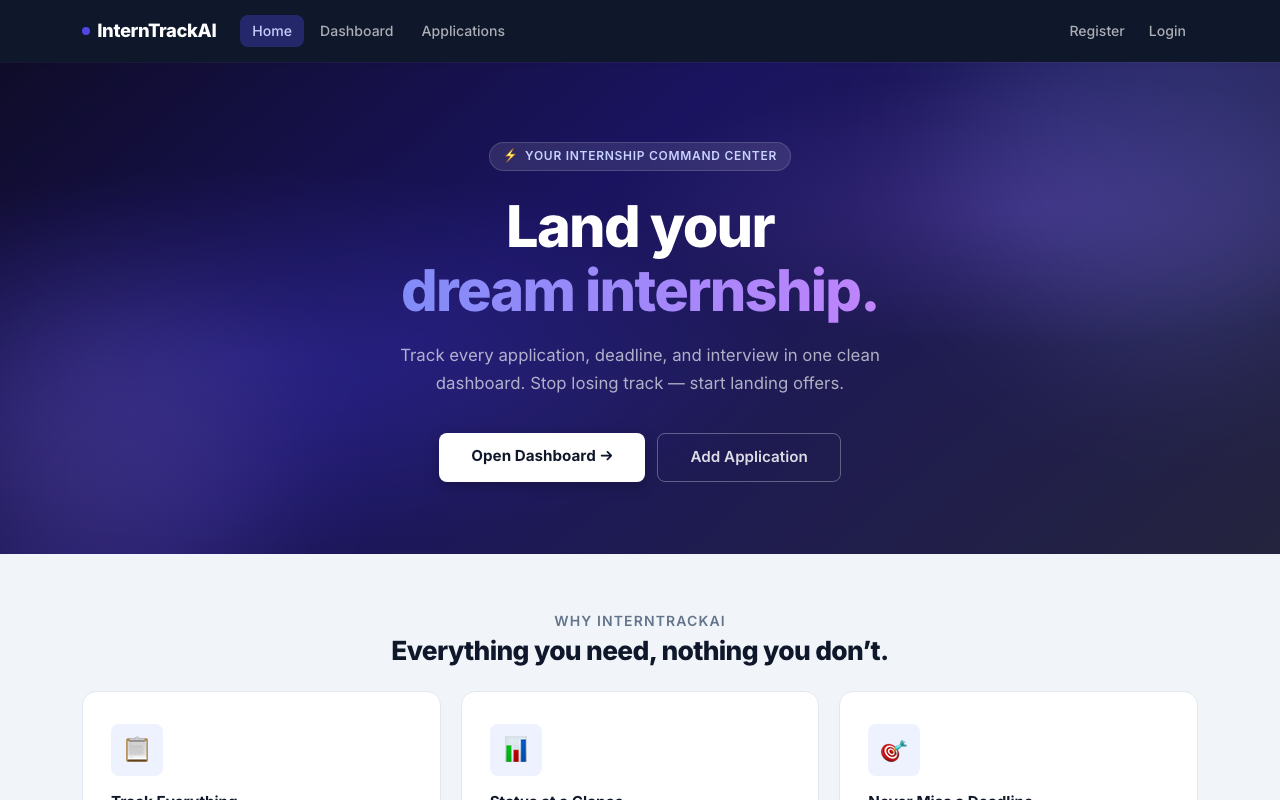
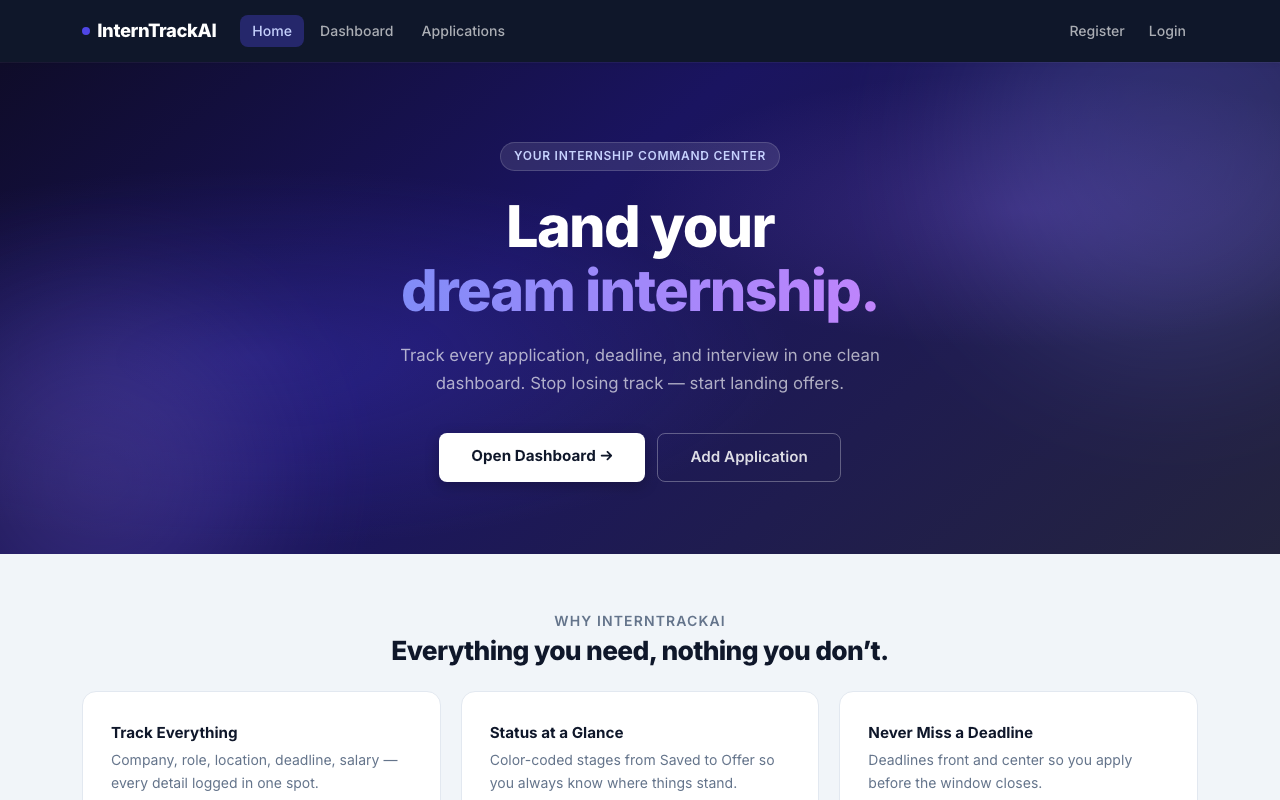
feat: URL support in AI analyzer, remove feature card badges, update screenshots
- JobAnalyzerService: auto-detect URLs, fetch page HTML, strip tags/scripts/nav
  before sending to GPT-4o-mini; 15s timeout via named UrlFetcher HttpClient
- Create view: URL-aware loading state ("Fetching page..." vs "Analyzing..."),
  auto-fills Job Link field when input is a URL
- Home: remove 01/02/03 number badges from feature cards
- README: document URL analyzer feature, refresh all screenshots

diff --git a/Services/JobAnalyzerService.cs b/Services/JobAnalyzerService.cs
@@ -1,6 +1,7 @@
 using System.Net.Http.Headers;
 using System.Text;
 using System.Text.Json;
+using System.Text.RegularExpressions;
 using InternTrackAI.Models.ViewModels;
 
 namespace InternTrackAI.Services;
@@ -8,6 +9,7 @@ namespace InternTrackAI.Services;
 public class JobAnalyzerService
 {
     private readonly HttpClient _http;
+    private readonly IHttpClientFactory _factory;
     private readonly string _apiKey;
     private readonly ILogger<JobAnalyzerService> _logger;
 
@@ -16,17 +18,28 @@ public class JobAnalyzerService
         PropertyNamingPolicy = JsonNamingPolicy.CamelCase
     };
 
-    public JobAnalyzerService(HttpClient http, IConfiguration config, ILogger<JobAnalyzerService> logger)
+    public JobAnalyzerService(HttpClient http, IHttpClientFactory factory, IConfiguration config, ILogger<JobAnalyzerService> logger)
     {
         _http = http;
+        _factory = factory;
         _apiKey = config["OpenAI:ApiKey"] ?? string.Empty;
         _logger = logger;
     }
 
-    public async Task<JobAnalysisResult> AnalyzeAsync(string jobDescription)
+    public async Task<JobAnalysisResult> AnalyzeAsync(string input)
     {
         if (string.IsNullOrWhiteSpace(_apiKey) || _apiKey == "your-openai-api-key-here")
             return Fail("OpenAI API key is not configured. Add it to appsettings.json under OpenAI:ApiKey.");
+
+        string jobDescription = input;
+
+        if (IsUrl(input))
+        {
+            var fetched = await FetchPageTextAsync(input);
+            if (fetched == null || fetched.Length < 50)
+                return Fail("Could not fetch the job posting from that URL. The site may require a login or block automated access. Try pasting the job description text instead.");
+            jobDescription = fetched;
+        }
 
         var systemPrompt =
             "You are a job description parser. " +
@@ -78,7 +91,6 @@ public class JobAnalyzerService
                     _   => $"OpenAI returned {(int)response.StatusCode}. Check your API key and account."
                 };
 
-                // Surface the OpenAI error detail when available
                 try
                 {
                     using var errDoc = JsonDocument.Parse(raw);
@@ -105,6 +117,63 @@ public class JobAnalyzerService
             _logger.LogError(ex, "Error calling OpenAI API");
             return Fail("Request to OpenAI failed. Check your network connection.");
         }
+    }
+
+    private static bool IsUrl(string input) =>
+        input.StartsWith("http://", StringComparison.OrdinalIgnoreCase) ||
+        input.StartsWith("https://", StringComparison.OrdinalIgnoreCase);
+
+    private async Task<string?> FetchPageTextAsync(string url)
+    {
+        try
+        {
+            using var client = _factory.CreateClient("UrlFetcher");
+            using var request = new HttpRequestMessage(HttpMethod.Get, url);
+            request.Headers.Add("User-Agent",
+                "Mozilla/5.0 (Macintosh; Intel Mac OS X 10_15_7) AppleWebKit/537.36 " +
+                "(KHTML, like Gecko) Chrome/124.0.0.0 Safari/537.36");
+            request.Headers.Add("Accept", "text/html,application/xhtml+xml,application/xml;q=0.9,*/*;q=0.8");
+
+            var response = await client.SendAsync(request);
+            if (!response.IsSuccessStatusCode)
+            {
+                _logger.LogWarning("URL fetch returned {Status} for {Url}", (int)response.StatusCode, url);
+                return null;
+            }
+
+            var html = await response.Content.ReadAsStringAsync();
+            var text = StripHtml(html);
+
+            return text.Length > 8000 ? text[..8000] : text;
+        }
+        catch (Exception ex)
+        {
+            _logger.LogWarning(ex, "Failed to fetch URL: {Url}", url);
+            return null;
+        }
+    }
+
+    private static string StripHtml(string html)
+    {
+        // Drop entire script, style, head, nav, footer blocks
+        html = Regex.Replace(html,
+            @"<(script|style|head|nav|footer|header)[^>]*>[\s\S]*?<\/\1>",
+            " ", RegexOptions.IgnoreCase);
+
+        // Strip remaining tags
+        html = Regex.Replace(html, @"<[^>]+>", " ");
+
+        // Decode common entities
+        html = html
+            .Replace("&amp;", "&").Replace("&lt;", "<").Replace("&gt;", ">")
+            .Replace("&nbsp;", " ").Replace("&quot;", "\"").Replace("&#39;", "'")
+            .Replace("&mdash;", "—").Replace("&ndash;", "–").Replace("&bull;", "•");
+
+        // Collapse whitespace
+        html = Regex.Replace(html, @"[ \t]{2,}", " ");
+        html = Regex.Replace(html, @"\n{3,}", "\n\n");
+
+        return html.Trim();
     }
 
     private static JobAnalysisResult Parse(string json)

diff --git a/Program.cs b/Program.cs
@@ -14,6 +14,8 @@ builder.Services.AddDatabaseDeveloperPageExceptionFilter();
 builder.Services.AddDefaultIdentity<IdentityUser>(options => options.SignIn.RequireConfirmedAccount = false)
     .AddEntityFrameworkStores<ApplicationDbContext>();
 builder.Services.AddHttpClient<JobAnalyzerService>();
+builder.Services.AddHttpClient("UrlFetcher")
+    .ConfigureHttpClient(c => c.Timeout = TimeSpan.FromSeconds(15));
 builder.Services.AddControllersWithViews();
 
 var app = builder.Build();

diff --git a/README.md b/README.md
@@ -27,9 +27,10 @@ A full-stack internship application tracker built with ASP.NET Core 9 MVC. Track
 - Split-screen login and register pages with ASP.NET Core Identity
 
 **Phase 2 — AI Analyzer**
-- Paste any job description and click Analyze
+- Paste a job description **or a job posting URL** and click Analyze
+- URLs are auto-detected — the page is fetched and parsed server-side before analysis
 - GPT-4o-mini extracts company name, role title, location, salary, and up to 8 required skills
-- Extracted data auto-fills the form with an animated highlight effect
+- Extracted data auto-fills the form with an animated highlight effect; Job Link field populated from URL input
 - Skill tags displayed inline after analysis
 - CSRF-protected JSON API endpoint
 
@@ -99,7 +100,7 @@ Models/
   ViewModels/JobAnalysisResult.cs
 
 Services/
-  JobAnalyzerService.cs       # OpenAI chat completions with json_object format
+  JobAnalyzerService.cs       # URL fetch + HTML strip + OpenAI chat completions
 
 Views/
   Home/Index.cshtml           # Hero landing page